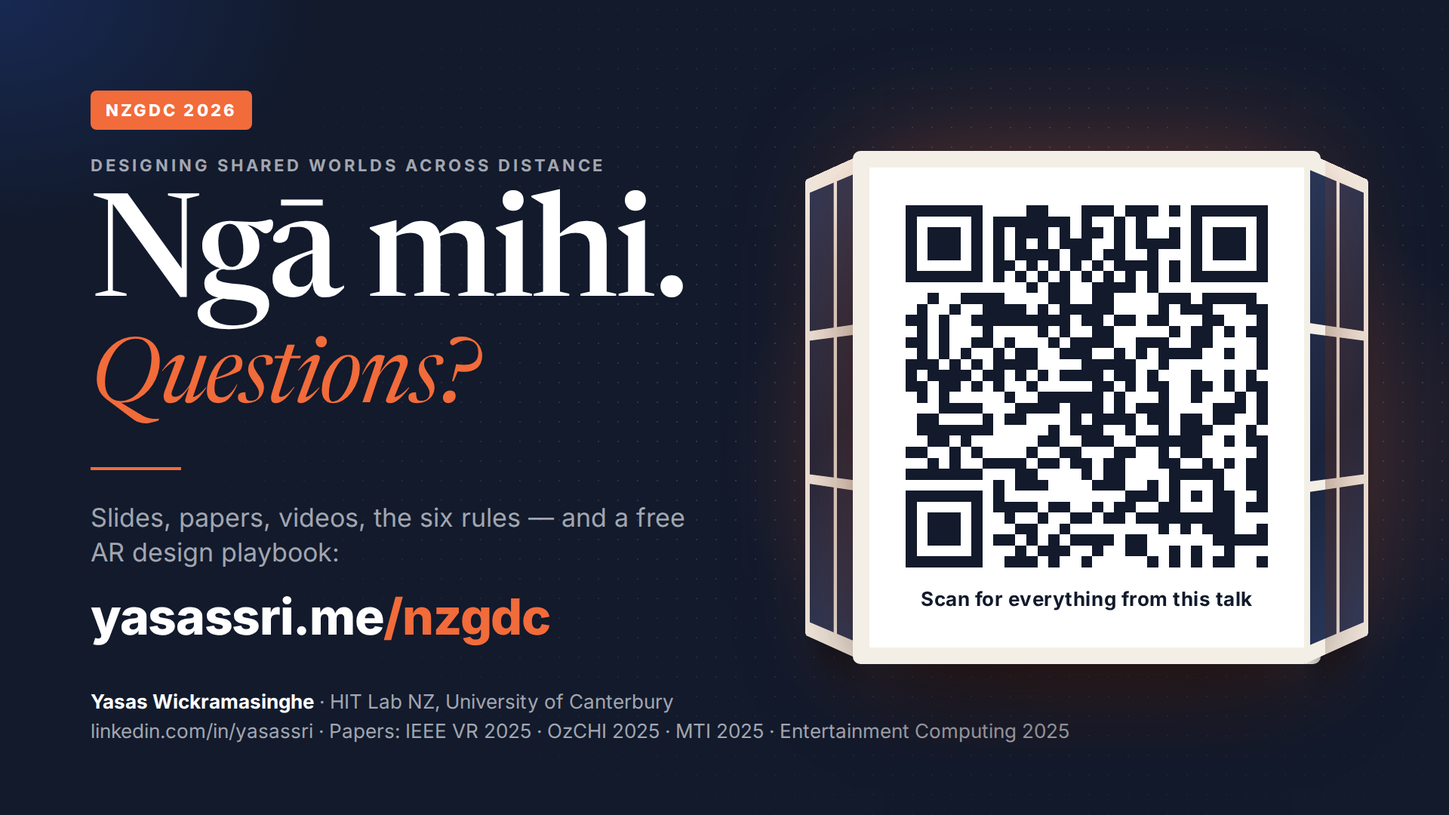
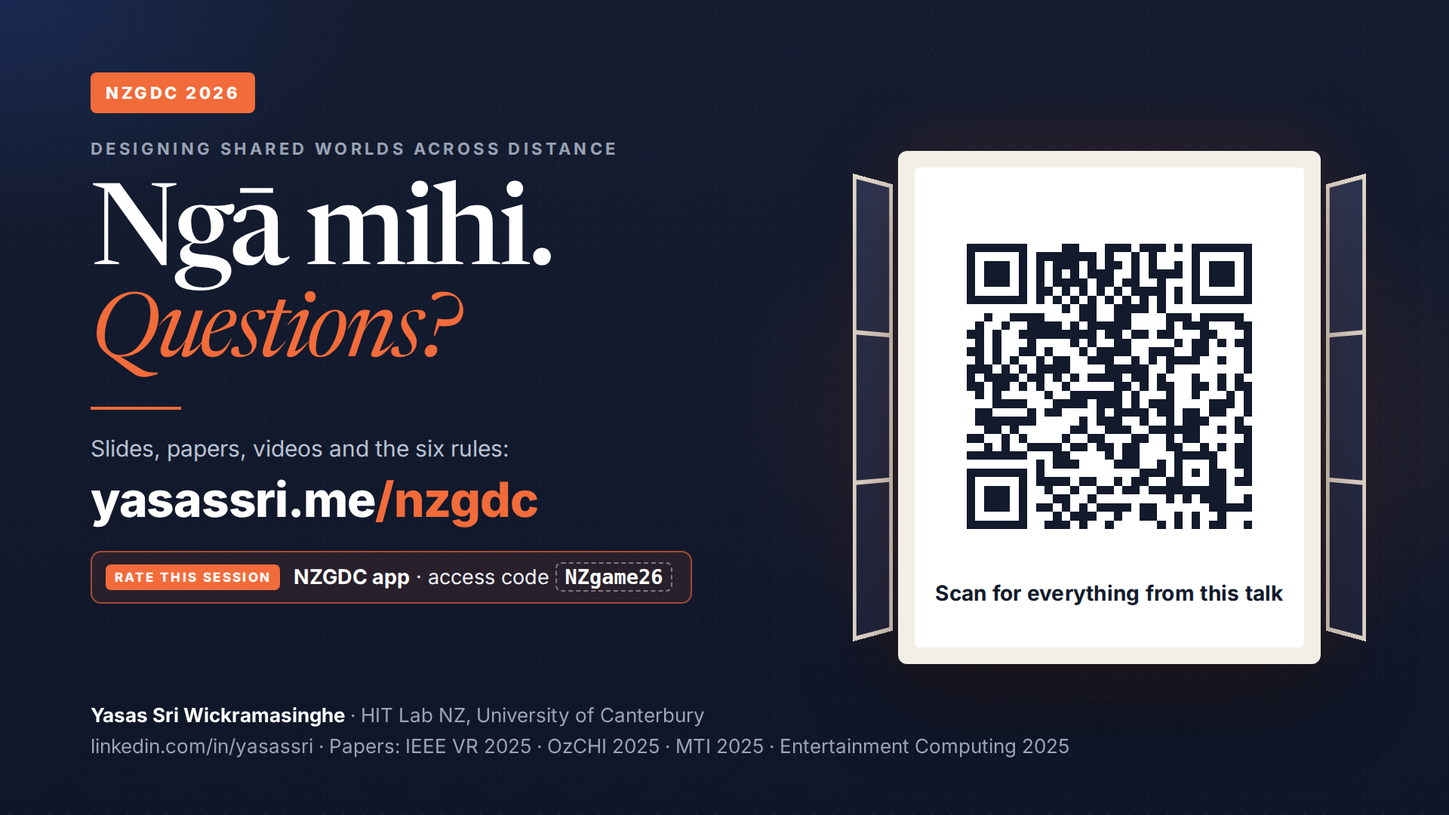
Match the NZGDC talk page to the v5 deck, and add a rate-this-session card
The companion page is open on phones during the talk, so its numbers and
rules now match what's on screen, checked against the MTI 9(8):79 paper:

- Hiding time 72s vs 52s (was 69s vs 49s), and the ~40% stat no longer
  claims the controls weren't the cause (the paper says 3D placement was).
- "Hide-and-seek, 1,000 km apart" becomes "from another room": the AR
  condition ran in two separate rooms.
- Laato et al.'s 7% is of surveyed location-based game players, with their
  actual quote; spending is US$1B+ for the first ten months of 2020
  (Sensor Tower), as on slide 5; "with input from Niantic's Wellington
  studio", as on slide 6.
- The six rules use slide 22's wording everywhere, and rule six no longer
  claims the timer "doubled the audience" (players split 9 vs 8).
- The downloadable six-rules image is rebuilt to match, and the closing
  slide image gains the rating ask. Both now have HTML sources and a build
  script in scripts/nzgdc-2026/.

Rate this session: from 3:00 PM on 1 October until two weeks later, the
hero shows how to leave feedback in the NZGDC event app (access code with
a copy button, web app, App Store and Google Play links), and the
feedback form's thank-you links back to it. Clicks are tracked in GA4.
…/nzgdc/?talk=live previews it before the talk.

Also stops "Confirm research notes" showing after the feedback form for
people who didn't tick that box (.btn overrode [hidden]).

Claude-Session: https://claude.ai/code/session_01CxQfSQD8x56gDkQHZYCdmr

Changed region(s): [[0.5312, 0.1833, 0.9688, 0.825], [0.0625, 0.0917, 0.4688, 0.7944], [0.0625, 0.8556, 0.75, 0.9472]]

diff --git a/nzgdc/index.html b/nzgdc/index.html
@@ -248,6 +248,21 @@
         <div class="u"><b data-u="s">–</b><small>sec</small></div>
         <span class="lbl">until I'm on stage in Auckland</span>
       </div>
+      <!-- Rate this session: shown from the start of the talk until RATE_UNTIL in talk-nzgdc.js.
+           Preview it any time with …/nzgdc/?talk=live -->
+      <aside class="t-rate-app" id="rate" aria-labelledby="rateTitle" hidden>
+        <h2 id="rateTitle">Were you in the room? <em>Rate this session.</em></h2>
+        <p>NZGDC collects session feedback in its event app. Honest feedback helps the organisers plan next year's programme, and helps me make this talk better. It takes ten seconds.</p>
+        <ol>
+          <li>Open the <b>NZGDC 2026 app</b> on your phone.</li>
+          <li>Access code <button type="button" class="t-code" id="rateCode" aria-label="Copy the access code NZgame26">NZgame26 <span>Copy</span></button></li>
+          <li>Find <b>Designing Shared Worlds Across Distance</b> (Thu, 3:00 PM) in the programme and leave your feedback.</li>
+        </ol>
+        <div class="t-rate-acts">
+          <a class="btn t-btn-primary" href="https://NZgame26.entegy.app" target="_blank" rel="noopener" data-rate-link="web">Open the NZGDC web app <span class="arrow">↗</span></a>
+          <span>No app yet? <a href="https://itunes.apple.com/app/id6529529470" target="_blank" rel="noopener" data-rate-link="ios">App Store</a> · <a href="https://play.google.com/store/apps/details?id=au.com.entegy.events" target="_blank" rel="noopener" data-rate-link="android">Google Play</a></span>
+        </div>
+      </aside>
       <div class="t-actions reveal" style="--d:.34s">
         <a class="btn t-btn-primary" href="#rules">The six rules <span class="arrow">↓</span></a>
         <a class="btn t-btn-ghost" href="#resources">Slides &amp; papers <span class="arrow">↓</span></a>
@@ -303,9 +318,9 @@
     <p class="t-lede reveal">Pokémon GO has grossed around <b>US$9 billion</b> in ten years. The AR camera is the part players switch off in the settings. Niantic eventually retired the basic AR mode altogether.</p>
 
     <div class="t-stats">
-      <div class="t-stat hot reveal"><b>~7<small>%</small></b><span>of Pokémon GO players say they regularly use the AR camera.</span><cite>Laato et al., 2021</cite></div>
-      <div class="t-stat reveal" style="--d:.06s"><b>#1</b><span>reason for turning it off: <em style="font-family:var(--serif);font-size:1.15em">“It slows me down.”</em></span></div>
-      <div class="t-stat reveal" style="--d:.12s"><b>US$1.4<small>B</small></b><span>Pokémon GO's best year ever — Jul 2020 to Jun 2021, the year remote play arrived.</span></div>
+      <div class="t-stat hot reveal"><b>~7<small>%</small></b><span>of surveyed location-based game players regularly used the AR camera.</span><cite>Laato, Inaba &amp; Hamari, 2021</cite></div>
+      <div class="t-stat reveal" style="--d:.06s"><b>#1</b><span>reason for switching it off: <em style="font-family:var(--serif);font-size:1.15em">“As it is slower to use, I prefer not to.”</em></span><cite>Laato, Inaba &amp; Hamari, 2021</cite></div>
+      <div class="t-stat reveal" style="--d:.12s"><b>US$1<small>B+</small></b><span>Pokémon GO player spending in the first ten months of 2020 — its best year to that point, the year remote play arrived.</span><cite>Sensor Tower, Nov 2020</cite></div>
     </div>
 
     <blockquote class="t-pull reveal">AR is usually “a technical gimmick or marketing tool” that could be removed “without substantially altering the experience.”<cite>Alha et al., on location-based AR games</cite></blockquote>
@@ -323,7 +338,7 @@
       </div>
       <div>
         <p class="t-study-q">How can AR make meaningful use of the real world for synchronous remote multiplayer play?</p>
-        <div class="t-tags"><span>Unity</span><span>Niantic Lightship ARDK</span><span>LiDAR iPads</span><span>Rooms scanned with Scaniverse</span><span>Tobii eye-tracking glasses</span><span>Ceiling cameras</span><span>Co-designed with Niantic Aotearoa, Wellington</span></div>
+        <div class="t-tags"><span>Unity</span><span>Niantic Lightship ARDK</span><span>LiDAR iPads</span><span>Rooms scanned with Scaniverse</span><span>Tobii eye-tracking glasses</span><span>Ceiling cameras</span><span>With input from Niantic's Wellington studio</span></div>
         <p class="t-study-note">So when I say players looked up, they didn't just tell me — I watched their eyes do it.</p>
       </div>
     </div>
@@ -364,7 +379,7 @@
 
     <div class="t-rule reveal">
       <span class="n">2</span>
-      <div><small>Rule two</small><p>Scale is presence. <span>Life-size to be there; a window to get things done.</span></p></div>
+      <div><small>Rule two</small><p>Scale changes presence. <span>Life-size to feel there. A window to get things done.</span></p></div>
     </div>
 
     <figure class="t-figure reveal">
@@ -381,7 +396,7 @@
       <span class="t-cnum" aria-hidden="true">02</span>
       <div>
         <span class="eyebrow reveal">Chapter two · Play</span>
-        <h2 class="reveal" style="--d:.06s">Hide-and-seek, <em>1,000 km apart</em></h2>
+        <h2 class="reveal" style="--d:.06s">Hide-and-seek <em>from another room</em></h2>
         <div class="meta reveal" style="--d:.1s"><span class="t-chip dark">Game 2</span><span class="t-chip">60 players</span><span class="t-chip">IEEE VR 2025 · MTI 2025</span></div>
       </div>
     </div>
@@ -399,13 +414,13 @@
     <div class="t-compare">
       <div class="t-panel reveal">
         <h3>The room grew a third dimension</h3>
-        <p>AR against real-world hide-and-seek — same 60 players, same room.</p>
+        <p>AR against real-world hide-and-seek — same 60 players, same two rooms.</p>
         <div class="t-legend"><span><i></i>AR</span><span><i class="real"></i>Real world</span></div>
         <div class="t-bars">
           <div class="t-bar">
             <h4>Time to hide</h4>
-            <div class="row"><span>AR</span><span class="t-track"><span class="fill" style="--w:86%"></span></span><span class="val">69s</span></div>
-            <div class="row"><span>Real</span><span class="t-track"><span class="fill real" style="--w:61%"></span></span><span class="val">49s</span></div>
+            <div class="row"><span>AR</span><span class="t-track"><span class="fill" style="--w:90%"></span></span><span class="val">72s</span></div>
+            <div class="row"><span>Real</span><span class="t-track"><span class="fill real" style="--w:65%"></span></span><span class="val">52s</span></div>
           </div>
           <div class="t-bar diverge">
             <h4>“Fun” (hedonic) score, −3 to +3</h4>
@@ -417,9 +432,9 @@
         <blockquote class="t-quote" style="margin-top:22px">I had to look above me, behind me, basically everywhere. It was exhausting but fun.<cite>Study 2 player</cite></blockquote>
       </div>
       <div class="t-bigstat reveal" style="--d:.08s">
-        <div><b>~40%</b><span>longer to hide in AR — not slow controls, just far more places to hide.</span></div>
+        <div><b>~40%</b><span>longer to hide in AR (72s vs 52s) — more places to consider, and placing objects in 3D took work.</span></div>
         <div><b><span class="count" data-target="32">32</span> <em>of</em> 60</b><span>players “lost track of time” — with a countdown on screen the whole round.</span></div>
-        <div><b>Same</b><span>finding time. Seekers rewired their search strategy within a single five-minute round.</span></div>
+        <div><b>Similar</b><span>finding time — no significant difference. Seekers' gaze spread wider and higher in AR.</span></div>
       </div>
     </div>
 
@@ -469,7 +484,7 @@
         <p>In real hide-and-seek, the most-hidden object was a dull grey koala; the bright yellow Minion was picked once. In AR it flipped — the Minion was picked fifteen times. In a game about concealment, players chose the most visible object in the pool.</p>
         <blockquote>“It stood out more, so it was easier to place where I wanted.”</blockquote>
         <p>Placement used fiddly on-screen thumbsticks, so players optimised for the controls — even when it made their strategy worse.</p>
-        <span class="pill">Rule five · Players optimise for your controls before your game</span>
+        <span class="pill">Rule five · Players adapt to your controls first</span>
       </div>
     </div>
 
@@ -486,7 +501,7 @@
       <div style="display:grid;gap:18px">
         <blockquote class="t-quote reveal">I live abroad, so it was such a cool way to feel connected to my sister back home.<cite>Study 2 player</cite></blockquote>
         <blockquote class="t-quote reveal" style="--d:.06s">It felt like we were kids again.<cite>Study 2 player</cite></blockquote>
-        <div class="t-rule reveal" style="margin-top:0"><span class="n">4</span><div><small>Rule four</small><p>Ship the cone first. <span>A view-cone and a voice channel buy most of “together”.</span></p></div></div>
+        <div class="t-rule reveal" style="margin-top:0"><span class="n">4</span><div><small>Rule four</small><p>A view-cone and voice go a long way. <span>Try those before building full avatars.</span></p></div></div>
       </div>
     </div>
   </div>
@@ -528,10 +543,10 @@
     </div>
     <div class="t-5050 reveal">
       <blockquote class="t-quote">Makes it competitive, so it won't take an eternity.<cite>A “give me the clock” player</cite></blockquote>
-      <div class="mid">50/50<small>preference split</small></div>
+      <div class="mid">9 vs 8<small>an almost even split</small></div>
       <blockquote class="t-quote">If I'm playing with friends I'd rather not have that stress — we just laugh and hide things.<cite>A “let me chill” player</cite></blockquote>
     </div>
-    <div class="t-rule reveal" style="background:var(--navy-2)"><span class="n">6</span><div><small>Rule six</small><p>Don't choose the pacing. Expose the dial. <span>It's cheap, and it doubled the audience the game worked for.</span></p></div></div>
+    <div class="t-rule reveal" style="background:var(--navy-2)"><span class="n">6</span><div><small>Rule six</small><p>Let players choose the pacing. <span>An optional timer, toggles and a practice round.</span></p></div></div>
 
     <div class="t-honest reveal">
       <span class="eyebrow" style="color:var(--yellow)">The honest list</span>
@@ -567,32 +582,32 @@
       </article>
       <article class="t-rcard reveal" id="rule-2" style="--d:0.06s">
         <span class="n">2</span>
-        <h3>Scale is presence.</h3>
-        <p>Life-size when you want players there. A window when you want them to get things done.</p>
+        <h3>Scale changes presence.</h3>
+        <p>Life-size to feel there. A window to get things done.</p>
         <button class="share" type="button">Share this rule <span aria-hidden="true">↗</span></button>
       </article>
       <article class="t-rcard reveal" id="rule-3" style="--d:0.12s">
         <span class="n">3</span>
         <h3>Break physics on purpose.</h3>
-        <p>The ceiling is the best hiding spot. Mid-air and ceilings were the most-loved thing we built — and the cheapest.</p>
+        <p>Players hid objects on the ceiling and in mid-air — spots the real game doesn't have.</p>
         <button class="share" type="button">Share this rule <span aria-hidden="true">↗</span></button>
       </article>
       <article class="t-rcard reveal" id="rule-4" style="--d:0.00s">
         <span class="n">4</span>
-        <h3>A view-cone and a voice channel buy most of “together”.</h3>
-        <p>Sixteen players said the cone was already enough. Ship the cone before you build avatars.</p>
+        <h3>A view-cone and voice go a long way.</h3>
+        <p>Try those before building full avatars. In Game 3, sixteen players said the cone was enough; ten wanted a fuller avatar.</p>
         <button class="share" type="button">Share this rule <span aria-hidden="true">↗</span></button>
       </article>
       <article class="t-rcard reveal" id="rule-5" style="--d:0.06s">
         <span class="n">5</span>
-        <h3>Players optimise for your controls before your game.</h3>
-        <p>Watch what they choose to hide, not just how they score. Fiddly input turned a concealment game into a visibility game.</p>
+        <h3>Players adapt to your controls first.</h3>
+        <p>Watch what they choose, not just how they score. Fiddly input turned a concealment game into a visibility game.</p>
         <button class="share" type="button">Share this rule <span aria-hidden="true">↗</span></button>
       </article>
       <article class="t-rcard reveal" id="rule-6" style="--d:0.12s">
         <span class="n">6</span>
-        <h3>Don't choose the pacing. Expose the dial.</h3>
-        <p>Players split almost 50/50 between “give me the clock” and “let me chill”. An optional timer is cheap, and it doubles who the game works for.</p>
+        <h3>Let players choose the pacing.</h3>
+        <p>An optional timer, toggles and a practice round. Players split almost evenly (9 vs 8) between “give me the clock” and “let me chill”.</p>
         <button class="share" type="button">Share this rule <span aria-hidden="true">↗</span></button>
       </article>
     </div>
@@ -725,6 +740,7 @@
           <a class="btn" href="https://www.linkedin.com/in/yasassri" target="_blank" rel="noopener">Connect on LinkedIn ↗</a>
           <a class="btn" id="fbNotesLink" href="../app/#/newsletter" hidden>Confirm research notes →</a>
         </div>
+        <p class="t-rate-nudge">Were you in the room? <a href="#rate">Rate the session in the NZGDC app</a> (access code NZgame26) — it takes ten seconds.</p>
       </div>
     </div>
     <div class="panel reveal" style="--d:.08s">

diff --git a/scripts/nzgdc-2026/closing-slide.html b/scripts/nzgdc-2026/closing-slide.html
@@ -1,0 +1,63 @@
+<!DOCTYPE html>
+<html lang="en">
+<head>
+<meta charset="utf-8"/>
+<title>Closing slide — NZGDC 2026</title>
+<!-- Source for assets/files/nzgdc-2026/closing-slide-nzgdc-2026.png (1920×1080), the Q&A slide.
+     The QR is qr-nzgdc-2026.png, which encodes https://www.yasassri.me/nzgdc/?qr. Rebuild with build.mjs. -->
+<link href="../../assets/css/fonts.css" rel="stylesheet"/>
+<link href="../../assets/css/fonts-newsreader.css" rel="stylesheet"/>
+<style>
+  * { box-sizing: border-box; margin: 0; padding: 0; }
+  html, body { width: 1920px; height: 1080px; overflow: hidden; }
+  body {
+    font-family: "Inter", sans-serif; color: #eef0f6; position: relative;
+    background:
+      radial-gradient(900px 600px at 78% 52%, rgba(242, 107, 58, .16), transparent 62%),
+      radial-gradient(800px 500px at 0% 0%, rgba(47, 107, 255, .16), transparent 60%),
+      linear-gradient(180deg, #151d31 0%, #0f1628 100%);
+  }
+  body::before { content: ""; position: absolute; inset: 0; opacity: .35; background-image: radial-gradient(rgba(255,255,255,.16) 1px, transparent 1.2px); background-size: 26px 26px; }
+  .left { position: absolute; left: 120px; top: 96px; width: 900px; }
+  .badge { display: inline-block; background: #f26b3a; color: #fff; border-radius: 8px; padding: 14px 20px; font-size: 22px; font-weight: 800; letter-spacing: .16em; }
+  .eyebrow { margin-top: 34px; font-size: 22px; font-weight: 700; letter-spacing: .2em; color: #9aa3b5; }
+  h1 { margin-top: 36px; font-family: "Newsreader", serif; font-weight: 500; font-size: 150px; line-height: .92; letter-spacing: -0.03em; color: #fff; }
+  h1 em { display: block; font-style: italic; color: #f26b3a; font-size: 118px; margin-top: 6px; }
+  .rule { width: 120px; height: 4px; background: #f26b3a; margin: 40px 0 30px; }
+  .get { font-size: 30px; line-height: 1.4; color: #b9c2d3; }
+  .url { margin-top: 8px; font-size: 64px; font-weight: 800; letter-spacing: -0.02em; color: #fff; }
+  .url span { color: #f26b3a; }
+  .rate { margin-top: 30px; display: inline-flex; align-items: center; gap: 18px; padding: 16px 24px 16px 18px; border-radius: 14px; border: 2px solid rgba(242, 107, 58, .6); background: rgba(242, 107, 58, .1); font-size: 27px; color: #eef0f6; }
+  .rate b { color: #fff; }
+  .rate .tag { padding: 7px 12px; border-radius: 7px; background: #f26b3a; color: #fff; font-size: 17px; font-weight: 800; letter-spacing: .14em; }
+  .rate code { font: 700 27px ui-monospace, Menlo, Consolas, monospace; color: #fff; padding: 2px 10px; border: 2px dashed rgba(255,255,255,.4); border-radius: 8px; }
+  .foot { position: absolute; left: 120px; bottom: 70px; font-size: 26px; line-height: 1.6; color: #9aa3b5; }
+  .foot b { color: #fff; }
+  .win { position: absolute; right: 110px; top: 200px; width: 680px; height: 680px; }
+  .shutter { position: absolute; top: 30px; bottom: 30px; width: 70px; background: linear-gradient(180deg, #2a3656, #1b2440); border: 6px solid #e9e2d6; }
+  .shutter.l { left: 0; transform: perspective(900px) rotateY(38deg); transform-origin: left; }
+  .shutter.r { right: 0; transform: perspective(900px) rotateY(-38deg); transform-origin: right; }
+  .shutter::after { content: ""; position: absolute; inset: 33% -6px; border-top: 6px solid #e9e2d6; border-bottom: 6px solid #e9e2d6; }
+  .frame { position: absolute; left: 60px; right: 60px; top: 0; bottom: 0; border-radius: 12px; background: #f4efe6; padding: 22px; box-shadow: 0 40px 120px rgba(0,0,0,.45), 0 0 120px rgba(242,107,58,.18); }
+  .qr { height: 100%; border-radius: 6px; background: #fff; display: flex; flex-direction: column; align-items: center; justify-content: center; gap: 22px; }
+  .qr img { width: 470px; height: 470px; image-rendering: pixelated; }
+  .qr p { font-size: 28px; font-weight: 700; color: #121a2c; letter-spacing: .01em; }
+</style>
+</head>
+<body>
+  <div class="left">
+    <span class="badge">NZGDC 2026</span>
+    <p class="eyebrow">DESIGNING SHARED WORLDS ACROSS DISTANCE</p>
+    <h1>Ngā mihi.<em>Questions?</em></h1>
+    <div class="rule"></div>
+    <p class="get">Slides, papers, videos and the six rules:</p>
+    <p class="url">yasassri.me<span>/nzgdc</span></p>
+    <p class="rate"><span class="tag">RATE THIS SESSION</span> <span><b>NZGDC app</b> · access code <code>NZgame26</code></span></p>
+  </div>
+  <div class="win">
+    <span class="shutter l"></span><span class="shutter r"></span>
+    <div class="frame"><div class="qr"><img src="../../assets/files/nzgdc-2026/qr-nzgdc-2026.png" alt=""/><p>Scan for everything from this talk</p></div></div>
+  </div>
+  <p class="foot"><b>Yasas Sri Wickramasinghe</b> · HIT Lab NZ, University of Canterbury<br/>linkedin.com/in/yasassri · Papers: IEEE VR 2025 · OzCHI 2025 · MTI 2025 · Entertainment Computing 2025</p>
+</body>
+</html>

diff --git a/assets/js/talk-nzgdc.js b/assets/js/talk-nzgdc.js
@@ -5,6 +5,7 @@
    3. Chapter bar scroll-spy               8. Share a rule
    4. Tabletop / Window / Overlay tabs     9. Slides + recording slots
    5. QR welcome                          10. Feedback form hand-off
+                                          11. Rate this session (NZGDC app)
    ========================================================================== */
 (function () {
   "use strict";
@@ -22,11 +23,15 @@
 
   var START = Date.UTC(2026, 9, 1, 2, 0, 0);   // 1 Oct 2026, 3:00 PM NZDT (UTC+13)
   var END = START + 30 * 60 * 1000;             // 3:30 PM NZDT
+  var RATE_UNTIL = END + 14 * 864e5;            // "Rate this session" card shows from START until then
+  // ?talk=before|live|after previews a state, e.g. …/nzgdc/?talk=live shows the rating card now.
+  var FORCE = (/[?&]talk=(before|live|after)\b/.exec(location.search) || [])[1];
 
   /* ---------------------------------------------------------------- 1 */
   var statusEl = $("#talkStatus");
   var cd = $("#countdown");
-  function state(now) { return now < START ? "before" : now < END ? "live" : "after"; }
+  var rateEl = $("#rate");
+  function state(now) { return FORCE || (now < START ? "before" : now < END ? "live" : "after"); }
   function pad(n) { return (n < 10 ? "0" : "") + n; }
   function tick() {
     var now = Date.now(), s = state(now);
@@ -37,6 +42,9 @@
         s === "before" ? "On stage Thursday 1 October, 3:00 PM NZDT" :
         s === "live" ? "On stage right now at NZICC" : "Delivered 1 October 2026 — thank you";
     }
+    var rateOpen = FORCE ? FORCE !== "before" : now >= START && now < RATE_UNTIL;
+    document.documentElement.setAttribute("data-rate", rateOpen ? "open" : "closed");
+    if (rateEl && rateEl.hidden === rateOpen) rateEl.hidden = !rateOpen;
     if (cd) {
       if (s !== "before") { cd.hidden = true; return; }
       var ms = START - now, d = Math.floor(ms / 864e5), h = Math.floor(ms / 36e5) % 24,
@@ -433,7 +441,7 @@
     out.innerHTML = o
       ? '<p class="mode">' + o.mode + '</p><h3>' + o.h + '</h3><p class="win">' + o.win + '</p><p class="q">' + o.q + '</p><div class="meta" style="margin-top:18px;display:flex;flex-wrap:wrap;gap:8px">' +
         o.chips.map(function (c) { return '<span class="t-chip">' + c + "</span>"; }).join("") + "</div>"
-      : '<p class="mode">Not one of our three study modes</p><h3>Untested — that\'s your playtest</h3><p class="win">We tested one object with no clock, three objects with no clock, and three objects with swapping and a timer. This combination is yours to find out.</p><p class="q">Which is the point: expose the dial, and let players pick.</p>';
+      : '<p class="mode">Not one of our three study modes</p><h3>Untested — that\'s your playtest</h3><p class="win">We tested one object with no clock, three objects with no clock, and three objects with swapping and a timer. This combination is yours to find out.</p><p class="q">Which is the point: let players choose the pacing.</p>';
   }
   $$("#dialObjects button").forEach(function (b) {
     b.addEventListener("click", function () {
@@ -514,4 +522,18 @@
       var th = $(".t-thanks"); if (th) th.scrollIntoView({ behavior: reduced ? "auto" : "smooth", block: "center" });
     });
   }
+
+  /* ---------------------------------------------------------------- 11 */
+  var codeBtn = $("#rateCode");
+  if (codeBtn) codeBtn.addEventListener("click", function () {
+    var lbl = codeBtn.querySelector("span");
+    var done = function () { lbl.textContent = "Copied ✓"; setTimeout(function () { lbl.textContent = "Copy"; }, 1800); };
+    if (navigator.clipboard && window.isSecureContext) navigator.clipboard.writeText("NZgame26").then(done, function () {});
+    if (window.gtag) window.gtag("event", "rate_copy_code", { event_category: "nzgdc2026" });
+  });
+  $$("[data-rate-link]").forEach(function (a) {
+    a.addEventListener("click", function () {
+      if (window.gtag) window.gtag("event", "rate_session_click", { event_category: "nzgdc2026", target: a.getAttribute("data-rate-link") });
+    });
+  });
 })();

diff --git a/assets/css/talk.css b/assets/css/talk.css
@@ -78,6 +78,32 @@
 .t-countdown .u small { display: block; margin-top: 6px; font-size: 10.5px; letter-spacing: .14em; text-transform: uppercase; color: var(--on-navy-dim); }
 .t-countdown .lbl { align-self: center; font-size: 13px; color: var(--on-navy-dim); margin-left: 4px; max-width: 120px; line-height: 1.35; }
 
+/* Rate this session — takes the countdown's place once the talk starts (talk-nzgdc.js §1, §11) */
+.t-rate-app { margin-top: 22px; max-width: 560px; padding: 20px 22px; border-radius: 16px; background: rgba(242, 107, 58, 0.09); border: 1px solid rgba(242, 107, 58, 0.45); }
+.t-rate-app[hidden] { display: none; }
+.t-rate-app h2 { font-family: var(--serif); font-weight: 500; font-size: 24px; line-height: 1.15; letter-spacing: -0.01em; color: #fff; }
+.t-rate-app h2 em { font-style: italic; color: var(--orange); }
+.t-rate-app > p { margin-top: 8px; font-size: 14.5px; line-height: 1.55; color: var(--on-navy-dim); }
+.t-rate-app ol { margin: 14px 0 0; padding: 0; list-style: none; counter-reset: rate; display: grid; gap: 10px; }
+.t-rate-app li { counter-increment: rate; position: relative; padding-left: 34px; min-height: 24px; font-size: 14.5px; line-height: 1.6; color: var(--on-navy); }
+.t-rate-app li::before {
+  content: counter(rate); position: absolute; left: 0; top: 0; width: 24px; height: 24px; border-radius: 50%;
+  background: var(--orange); color: #fff; font-size: 12px; font-weight: 800; line-height: 24px; text-align: center;
+}
+.t-code {
+  display: inline-flex; align-items: center; gap: 10px; height: 30px; margin-left: 4px; padding: 0 5px 0 12px; vertical-align: middle;
+  border-radius: 8px; border: 1px dashed rgba(255, 255, 255, .4); background: rgba(255, 255, 255, .06); color: #fff; cursor: pointer;
+  font: 700 15px/1 ui-monospace, SFMono-Regular, Menlo, Consolas, monospace; letter-spacing: .04em;
+}
+.t-code span { padding: 5px 7px; border-radius: 5px; background: var(--orange); font: 800 10.5px/1 var(--sans); letter-spacing: .12em; text-transform: uppercase; }
+.t-code:hover { border-color: var(--orange); }
+.t-code:focus-visible { outline: 2px solid var(--orange); outline-offset: 2px; }
+.t-rate-acts { display: flex; flex-wrap: wrap; align-items: center; gap: 10px 16px; margin-top: 18px; font-size: 13.5px; color: var(--on-navy-dim); }
+.t-rate-acts a:not(.btn) { color: #fff; text-decoration: underline; text-underline-offset: 3px; }
+.t-thanks .t-rate-nudge { display: none; margin-top: 18px; padding-top: 16px; border-top: 1px solid var(--navy-line); }
+[data-rate="open"] .t-thanks .t-rate-nudge { display: block; }
+.t-rate-nudge a { color: #fff; text-decoration: underline; text-underline-offset: 3px; }
+
 /* ---------- The Window (hero centrepiece) ---------- */
 .t-window { margin: 0; position: relative; }
 .t-window-stage { position: relative; perspective: 1600px; padding: 0 9%; }
@@ -487,6 +513,7 @@
 .t-thanks p { margin-top: 8px; }
 .t-thanks .acts { display: flex; flex-wrap: wrap; gap: 10px; margin-top: 18px; }
 .t-thanks .btn { color: #fff; border-color: rgba(255,255,255,.3); }
+.t-thanks .btn[hidden] { display: none; }
 .t-fb.is-done form { display: none; }
 .t-fb.is-done .t-thanks { display: block; }
 .t-qr-hello { display: none; margin-top: 18px; padding: 14px 16px; border-radius: 14px; background: var(--orange-soft); font-size: 14.5px; color: var(--ink); }

diff --git a/scripts/nzgdc-2026/six-rules.html b/scripts/nzgdc-2026/six-rules.html
@@ -1,0 +1,42 @@
+<!DOCTYPE html>
+<html lang="en">
+<head>
+<meta charset="utf-8"/>
+<title>Six rules image — NZGDC 2026</title>
+<!-- Source for assets/files/nzgdc-2026/six-rules-shared-worlds.png (1080×1350). Rebuild with build.mjs.
+     The rule wording matches slide 22 of the deck and the rules on /nzgdc/. -->
+<link href="../../assets/css/fonts.css" rel="stylesheet"/>
+<link href="../../assets/css/fonts-newsreader.css" rel="stylesheet"/>
+<style>
+  * { box-sizing: border-box; margin: 0; padding: 0; }
+  html, body { width: 1080px; height: 1350px; }
+  body { background: #f26b3a; color: #fff; font-family: "Inter", sans-serif; padding: 70px 70px 0; position: relative; }
+  .top { display: flex; justify-content: space-between; align-items: center; }
+  .badge { background: #121a2c; border-radius: 8px; padding: 12px 16px; font-size: 18px; font-weight: 800; letter-spacing: .14em; }
+  .kick { font-size: 18px; font-weight: 700; letter-spacing: .16em; color: #ffe1d3; }
+  h1 { margin-top: 30px; font-family: "Newsreader", serif; font-weight: 500; font-size: 76px; line-height: 1.0; letter-spacing: -0.025em; }
+  h1 em { color: #121a2c; }
+  .sub { margin-top: 26px; font-size: 22px; color: #ffe8dd; }
+  ol { list-style: none; margin-top: 34px; display: grid; gap: 16px; counter-reset: r; }
+  li { counter-increment: r; display: grid; grid-template-columns: 90px 1fr; align-items: center; min-height: 126px; padding: 18px 30px 18px 26px; border-radius: 18px; background: #121a2c; }
+  li::before { content: counter(r); font-family: "Newsreader", serif; font-size: 56px; color: #f26b3a; padding-left: 6px; }
+  li b { display: block; font-family: "Newsreader", serif; font-weight: 500; font-size: 33px; line-height: 1.12; letter-spacing: -0.01em; }
+  li span { display: block; margin-top: 8px; font-size: 20px; color: #aab3c5; }
+  .foot { position: absolute; left: 70px; right: 70px; bottom: 56px; display: flex; justify-content: space-between; font-size: 22px; font-weight: 700; }
+</style>
+</head>
+<body>
+  <div class="top"><span class="badge">NZGDC 2026</span><span class="kick">TALK TAKEAWAYS</span></div>
+  <h1>Six rules for designing shared worlds <em>across distance</em></h1>
+  <p class="sub">From three multiplayer AR games and 128 players at HIT Lab NZ.</p>
+  <ol>
+    <li><div><b>If players can switch the AR off, it isn't a mechanic yet.</b><span>Make something the game needs that only AR can do.</span></div></li>
+    <li><div><b>Scale changes presence.</b><span>Life-size to feel there. A window to get things done.</span></div></li>
+    <li><div><b>Break physics on purpose.</b><span>Players hid objects on the ceiling and in mid-air.</span></div></li>
+    <li><div><b>A view-cone and voice go a long way.</b><span>Try those before building full avatars.</span></div></li>
+    <li><div><b>Players adapt to your controls first.</b><span>Watch what they choose, not just how they score.</span></div></li>
+    <li><div><b>Let players choose the pacing.</b><span>An optional timer, toggles and a practice round.</span></div></li>
+  </ol>
+  <div class="foot"><span>Dr. Yasas Sri Wickramasinghe</span><span>yasassri.me/nzgdc</span></div>
+</body>
+</html>
